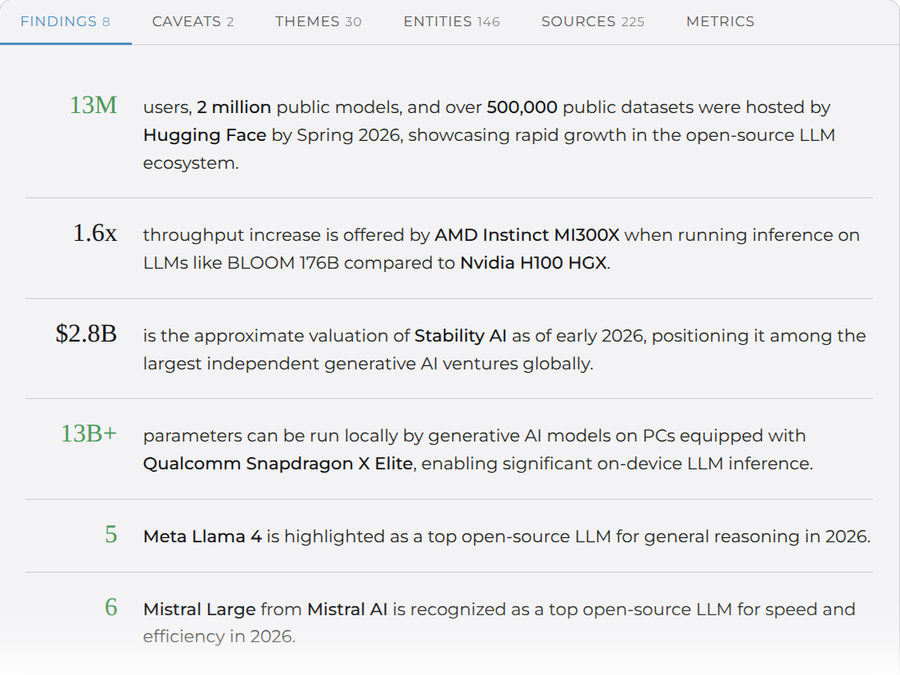
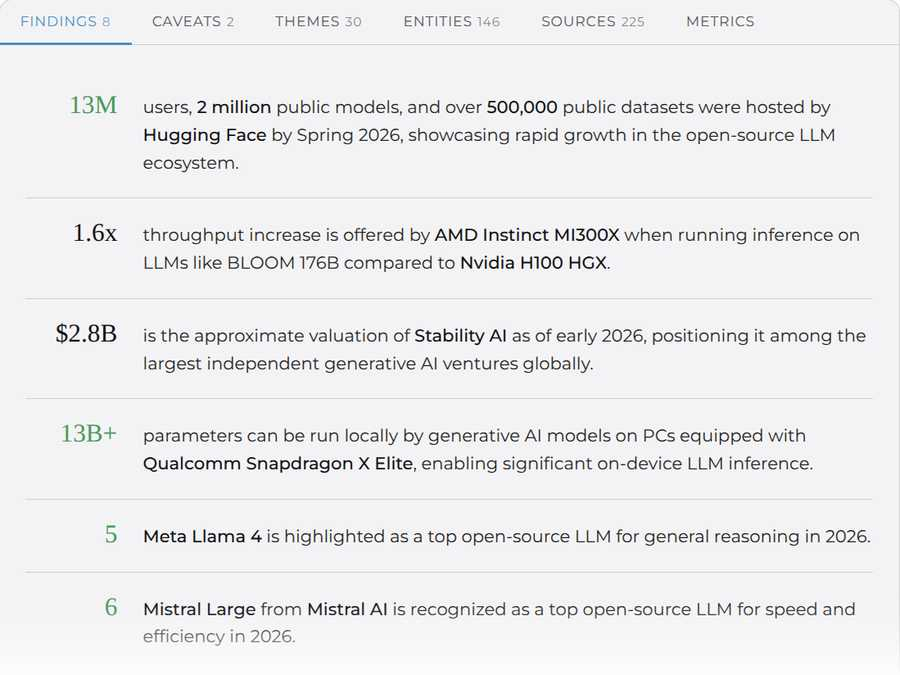
Swap llm-news screenshots for the new front page, recompress xray preview (#45)

diff --git a/index.html b/index.html
@@ -111,8 +111,8 @@
       <div class="agent-rows">
         <article class="agent-row">
           <div class="agent-shot">
-            <img src="/assets/news-feed-univisium-light.jpg" class="show-in-dark" alt="llm-news feed" loading="lazy" width="1600" height="800">
-            <img src="/assets/news-feed-univisium.jpg" class="show-in-light" alt="llm-news feed" loading="lazy" width="1600" height="800">
+            <img src="/assets/news-front-univisium-light.jpg" class="show-in-dark" alt="llm-news front page" loading="lazy" width="1600" height="800">
+            <img src="/assets/news-front-univisium.jpg" class="show-in-light" alt="llm-news front page" loading="lazy" width="1600" height="800">
           </div>
           <div class="agent-info">
             <div class="agent-name">
